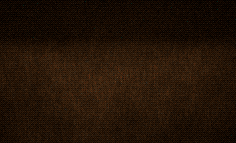
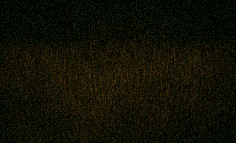
Dark pixel look rebuilt from realistic renders; ornate rendered doors for classic
- Pixel: rusted sword, shield, axe and spear and the HUD gems are now Blender renders crushed into fine grainy
  pixels (random-noise dithering, rich palette) instead of drawn pixel art; mossy weathered stone wall;
  grimy steel and worn wood; dim, worn spines with dark labels; plainer pixel type; cobwebs removed
- Classic: closed cases show rendered oak doors with scrolled iron hinges, grille, studs and ring pulls
- Fix: a duplicated CSS block was overriding the newer door and weapon styles

Claude-Session: https://claude.ai/code/session_01AorV6A1RpKrV1UJqfhHdYQ

diff --git a/index.html b/index.html
@@ -495,7 +495,7 @@ html[data-look="pixel"] .top{background:url(look/p-head.png) 0 0/100% 100% no-re
 html[data-look="pixel"] .top::after{height:10px;border-top:0;background:url(look/p-rail.png) 0 0/100% 100% no-repeat;image-rendering:pixelated}
 html[data-look="pixel"] .brand{align-items:center}
 html[data-look="pixel"] .brand::before{content:"";width:40px;height:40px;flex:none;background:url(look/p-gem-big.png) center/40px 40px no-repeat;image-rendering:pixelated;margin-right:-2px}
-html[data-look="pixel"] .top h1{font-family:"Pixelify Sans","VT323",monospace;font-weight:600;font-size:25px;letter-spacing:.04em;text-transform:uppercase;color:#E2C478;text-shadow:2px 2px 0 #0C0907}
+html[data-look="pixel"] .top h1{font-family:"VT323",monospace;font-weight:400;font-size:30px;letter-spacing:.06em;text-transform:uppercase;color:#D8C8A0;text-shadow:2px 2px 0 #0C0907}
 html[data-look="pixel"] .btn,html[data-look="pixel"] .icon-btn,html[data-look="pixel"] .chip,html[data-look="pixel"] .card-edit{font-family:"VT323",monospace;font-weight:400;font-size:20px;letter-spacing:.02em;color:#E8E0CC;text-shadow:1px 1px 0 #0C0907;
   border:1px solid transparent;border-image:url(look/p-btn.png) 5/5px stretch;background:url(look/tx-pixel.png) 0 0/64px,#2A2420;background-blend-mode:multiply;box-shadow:0 3px 0 rgba(0,0,0,.5);image-rendering:pixelated;text-transform:uppercase}
 html[data-look="pixel"] .btn.brass,html[data-look="pixel"] .chip[aria-pressed="true"],html[data-look="pixel"] .card-edit.on{color:#F4E8C4;background:url(look/tx-pixel.png) 0 0/64px,#7A5E28;background-blend-mode:multiply}
@@ -513,7 +513,7 @@ html[data-look="pixel"] .case::after{right:0;border-image-source:url(look/p-pil-
 html[data-look="pixel"] .cornice{height:58px;margin:0 -22px;background:url(look/p-cornice.png) center/100% 100% no-repeat;image-rendering:pixelated}
 html[data-look="pixel"] .cornice>*{display:none}
 html[data-look="pixel"] .plate-row{margin:-44px 0 14px}
-html[data-look="pixel"] .scroll{width:24px;height:24px;margin:0 6px;background:url(look/p-gem-on.png) center/24px 24px no-repeat;image-rendering:pixelated}
+html[data-look="pixel"] .scroll{width:30px;height:30px;margin:0 3px;background:url(look/p-gem-on.png) center/30px 30px no-repeat;image-rendering:pixelated}
 html[data-look="pixel"] .scroll *{display:none}
 html[data-look="pixel"] .plate{height:30px;display:inline-flex;align-items:center;padding:0 16px;border:0;border-image:url(look/p-plate.png) 6 fill/6px stretch;background:none;box-shadow:none;image-rendering:pixelated;
   font-family:"VT323",monospace;font-size:21px;letter-spacing:.06em;text-transform:uppercase;color:#E8E0CC;text-shadow:1px 1px 0 #0C0907}
@@ -527,7 +527,7 @@ html[data-look="pixel"] .door::after{background:#22A866;box-shadow:0 0 0 2px #0C
 html[data-look="pixel"] .nav{border-top:0;background:url(look/p-nav.png) 0 0/100% 100% no-repeat,#17120e;image-rendering:pixelated}
 html[data-look="pixel"] .nav button{font-family:"VT323",monospace;font-size:19px;font-weight:400;color:#9C9480;text-shadow:1px 1px 0 #0C0907}
 html[data-look="pixel"] .nav button svg{display:none}
-html[data-look="pixel"] .nav button::after{content:"";order:-1;width:28px;height:28px;background:url(look/p-gem-off.png) center/28px 28px no-repeat;image-rendering:pixelated}
+html[data-look="pixel"] .nav button::after{content:"";order:-1;width:30px;height:30px;background:url(look/p-gem-off.png) center/30px 30px no-repeat;image-rendering:pixelated}
 html[data-look="pixel"] .nav button[aria-current="page"]{color:#E2C478}
 html[data-look="pixel"] .nav button[aria-current="page"]::after{background-image:url(look/p-gem-on.png)}
 html[data-look="pixel"] .nav button[aria-current="page"]::before{display:none}
@@ -535,7 +535,7 @@ html[data-look="pixel"] .badge{font-family:"VT323",monospace;font-size:17px;back
 html[data-look="pixel"] .leather,html[data-look="pixel"] .sheet{background:url(look/tx-pixel.png) 0 0/64px,#1E1813;background-blend-mode:multiply;border:1px solid transparent;border-image:url(look/p-field.png) 5/6px stretch;box-shadow:0 8px 0 rgba(0,0,0,.45);image-rendering:pixelated}
 html[data-look="pixel"] .sheet{border-bottom:0}
 html[data-look="pixel"] .parch,html[data-look="pixel"] .index-card{background:#D8CBA8;color:#1E1810;box-shadow:inset 0 0 0 3px #0C0907,inset 0 0 0 6px #8E7E5E,0 8px 0 rgba(0,0,0,.45)}
-html[data-look="pixel"] .card-title,html[data-look="pixel"] .sheet-title,html[data-look="pixel"] .b-title,html[data-look="pixel"] .uni-title,html[data-look="pixel"] .grp-head,html[data-look="pixel"] .empty-card h2{font-family:"Pixelify Sans","VT323",monospace;font-weight:600;letter-spacing:.02em}
+html[data-look="pixel"] .card-title,html[data-look="pixel"] .sheet-title,html[data-look="pixel"] .b-title,html[data-look="pixel"] .uni-title,html[data-look="pixel"] .grp-head,html[data-look="pixel"] .empty-card h2{font-family:"VT323",monospace;font-weight:400;letter-spacing:.04em;font-size:1.25em}
 html[data-look="pixel"] .ledger .card-title,html[data-look="pixel"] .sheet-title,html[data-look="pixel"] .b-title{color:#E2C478;text-shadow:2px 2px 0 #0C0907}
 html[data-look="pixel"] .b-author,html[data-look="pixel"] .entry.missing .et{font-style:normal}
 html[data-look="pixel"] .x{border:1px solid transparent;border-image:url(look/p-btn.png) 5/5px stretch;background:#2A2420;color:#E2C478}
@@ -649,14 +649,11 @@ html[data-look="classic"] .lcov .frame{border:2px solid rgba(214,170,90,.8);box-
 .prop{display:none}
 html[data-look="pixel"] .prop{display:block;position:absolute;pointer-events:none;z-index:3;image-rendering:pixelated;background-repeat:no-repeat}
 html[data-look="pixel"] .prop.arm{background-size:100% 100%}
-html[data-look="pixel"] .case:nth-of-type(5n+1) .prop.arm{left:-10px;top:-30px;width:72px;height:72px;background-image:url(look/p-w-shield.png);transform:rotate(-8deg)}
-html[data-look="pixel"] .case:nth-of-type(5n+2) .prop.arm{right:-12px;bottom:-4px;width:56px;height:96px;background-image:url(look/p-w-axe.png);transform:rotate(-12deg);transform-origin:50% 100%}
-html[data-look="pixel"] .case:nth-of-type(5n+3) .prop.arm{left:-8px;bottom:-6px;width:22px;height:176px;background-image:url(look/p-w-spear.png);transform:rotate(6deg);transform-origin:50% 100%}
-html[data-look="pixel"] .case:nth-of-type(5n+4) .prop.arm{right:34px;top:-60px;width:28px;height:116px;background-image:url(look/p-w-sword.png);transform:rotate(90deg)}
-html[data-look="pixel"] .case:nth-of-type(5n) .prop.arm{left:24%;top:-30px;width:20px;height:56px;background-image:url(look/p-w-dagger.png);transform:rotate(172deg)}
-html[data-look="pixel"] .prop.cobweb{display:none;right:18px;top:58px;width:48px;height:48px;background:url(look/p-w-web.png) 0 0/100% 100% no-repeat;transform:scaleX(-1)}
-html[data-look="pixel"] .case:nth-of-type(3n+2) .prop.cobweb{display:block;right:auto;left:18px;transform:none}
-html[data-look="pixel"] .case:nth-of-type(4n+3) .prop.cobweb{display:block}
+html[data-look="pixel"] .case:nth-of-type(5n+1) .prop.arm{left:-10px;top:-40px;width:80px;height:80px;background-image:url(look/p-w-shield.png);transform:rotate(-7deg)}
+html[data-look="pixel"] .case:nth-of-type(5n+2) .prop.arm{right:-12px;bottom:-2px;width:60px;height:110px;background-image:url(look/p-w-axe.png);transform:rotate(-12deg);transform-origin:50% 100%}
+html[data-look="pixel"] .case:nth-of-type(5n+3) .prop.arm{left:-6px;bottom:-4px;width:22px;height:170px;background-image:url(look/p-w-spear.png);transform:rotate(6deg);transform-origin:50% 100%}
+html[data-look="pixel"] .case:nth-of-type(5n+4) .prop.arm{right:48px;top:-84px;width:30px;height:126px;background-image:url(look/p-w-sword.png);transform:rotate(90deg)}
+html[data-look="pixel"] .case:nth-of-type(5n) .prop.arm{right:-6px;bottom:-4px;width:30px;height:126px;background-image:url(look/p-w-sword.png);transform:rotate(-9deg);transform-origin:50% 100%}
 html[data-look="pixel"] .cornice{clip-path:polygon(0 5px,3px 5px,3px 1px,9px 1px,9px 0,38% 0,38% 3px,calc(38% + 5px) 3px,calc(38% + 5px) 0,calc(100% - 14px) 0,calc(100% - 14px) 2px,calc(100% - 4px) 2px,calc(100% - 4px) 7px,100% 7px,100% 100%,0 100%)}
 html[data-look="pixel"] .case:nth-of-type(2n) .cornice{clip-path:polygon(0 0,22% 0,22% 2px,calc(22% + 8px) 2px,calc(22% + 8px) 0,calc(100% - 6px) 0,calc(100% - 6px) 4px,100% 4px,100% 100%,0 100%)}
 html[data-look="pixel"] .case:nth-of-type(3n) .cornice{clip-path:polygon(0 3px,6px 3px,6px 0,61% 0,61% 4px,calc(61% + 3px) 4px,calc(61% + 3px) 1px,100% 1px,100% 100%,0 100%)}
@@ -671,10 +668,9 @@ html[data-look="pixel"] .leather:not(.sheet){clip-path:polygon(0 4px,4px 4px,4px
 html[data-look="pixel"] .ledger:nth-child(even){transform:rotate(.35deg)}
 html[data-look="pixel"] .ledger:nth-child(3n){transform:rotate(-.3deg)}
 /* doors of a closed case */
-html[data-look="pixel"] .door{background:linear-gradient(transparent 20%,#0C0907 20% 22%,#5C605E 22% 30%,#0C0907 30% 32%,transparent 32% 66%,#0C0907 66% 68%,#5C605E 68% 76%,#0C0907 76% 78%,transparent 78%),
-  repeating-linear-gradient(90deg,#0C0907 0 2px,transparent 2px 14px),url(look/tx-pixel.png) 0 0/64px,#4E3420;background-blend-mode:normal,normal,multiply,normal;box-shadow:inset 0 0 0 2px #0C0907,inset 2px 2px 0 rgba(255,220,170,.15)}
-html[data-look="pixel"] .door::before{inset:0;background:linear-gradient(90deg,transparent 0 4px,#8E9490 4px 6px,transparent 6px) 0 23%/14px 4px repeat-x,linear-gradient(90deg,transparent 0 4px,#8E9490 4px 6px,transparent 6px) 0 71%/14px 4px repeat-x;box-shadow:none}
-html[data-look="pixel"] .door::after{width:10px;height:10px;margin-top:-5px;border-radius:0;background:transparent;box-shadow:inset 0 0 0 2px #8E9490,0 0 0 2px #0C0907}
+html[data-look="pixel"] .door{background:linear-gradient(rgba(8,6,4,.42),rgba(8,6,4,.42)),url(look/p-rail.png) 0 24%/100% 7px no-repeat,url(look/p-rail.png) 0 72%/100% 7px no-repeat,url(look/p-back.png) 0 0/auto,#1a130e;image-rendering:pixelated;box-shadow:inset 0 0 0 2px #0C0907,inset 0 0 12px rgba(0,0,0,.7)}
+html[data-look="pixel"] .door::before{display:none}
+html[data-look="pixel"] .door::after{width:10px;height:12px;margin-top:-6px;border-radius:0;background:url(look/p-gem-off.png) center/12px 12px;box-shadow:none;image-rendering:pixelated}
 html[data-look="pixel"] .door.r{clip-path:polygon(0 0,100% 0,100% 100%,30% 100%,30% calc(100% - 3px),0 calc(100% - 3px))}
 /* notes: parchment, not lined paper */
 html[data-look="pixel"] .index-card{color:#1E1810;background:url(look/tx-pixel.png) 0 0/64px,#C9B588;background-blend-mode:multiply;image-rendering:pixelated;
@@ -686,13 +682,11 @@ html[data-look="pixel"] .index-card .card-sub,html[data-look="pixel"] .index-car
 html[data-look="pixel"] .index-card .btn{color:#1E1810;text-shadow:none;background:url(look/tx-pixel.png) 0 0/64px,#B6A070;background-blend-mode:multiply}
 
 /* ===== classic: dungeon doors and parchment notes ===== */
-html[data-look="classic"] .doors-in{gap:4px}
-html[data-look="classic"] .door{background:linear-gradient(transparent 18%,#1E1814 18% 27%,transparent 27% 70%,#1E1814 70% 79%,transparent 79%),
-  repeating-linear-gradient(90deg,rgba(20,8,2,.55) 0 2px,transparent 2px 19px),url(look/tx-paint.webp) 0 0/140px,linear-gradient(#4E3218,#2C1A0C);
-  background-blend-mode:normal,normal,multiply,normal;box-shadow:inset 0 0 0 2px #140A04,inset 0 0 16px rgba(0,0,0,.65),0 3px 6px rgba(0,0,0,.6)}
-html[data-look="classic"] .door::before{inset:0;background:radial-gradient(circle,#B4A48E 0 1.3px,#2A2018 1.6px,transparent 2.2px) 8px 22.5%/19px 7px repeat-x,radial-gradient(circle,#B4A48E 0 1.3px,#2A2018 1.6px,transparent 2.2px) 8px 74.5%/19px 7px repeat-x;box-shadow:none}
-html[data-look="classic"] .door::after{width:14px;height:16px;margin-top:-6px;border-radius:50%;background:transparent;border:2px solid #6A5A48;box-shadow:0 1px 2px rgba(0,0,0,.8),inset 0 1px 1px rgba(0,0,0,.6)}
-html[data-look="classic"] .door.l::after{right:6px}html[data-look="classic"] .door.r::after{left:6px}
+html[data-look="classic"] .doors-in{gap:4px;height:112px}
+html[data-look="classic"] .case.st-closed .doors-wrap{height:112px}
+html[data-look="classic"] .door{background:url(look/c-door-l.webp) center/100% 100% no-repeat,#140a04;box-shadow:inset 0 0 0 1px #0a0502,0 3px 8px rgba(0,0,0,.75)}
+html[data-look="classic"] .door.r{background-image:url(look/c-door-r.webp)}
+html[data-look="classic"] .door::before,html[data-look="classic"] .door::after{display:none}
 html[data-look="classic"] .index-card{color:#2C1608;background:url(look/tx-paper.webp) 0 0/120px,radial-gradient(ellipse at 50% 40%,#F0DFB4 38%,#D2B47E 85%,#B08A52);background-blend-mode:multiply;
   box-shadow:inset 0 0 26px rgba(110,60,20,.5),inset 0 0 3px rgba(70,30,8,.6),0 10px 20px rgba(0,0,0,.6);
   clip-path:polygon(0 2%,3% 0,22% 1%,41% 0,63% 1.2%,82% 0,97% .6%,100% 3%,99.4% 28%,100% 54%,99.2% 79%,100% 97%,96% 100%,74% 99%,52% 100%,29% 99.2%,8% 100%,.5% 98%,0 74%,.8% 49%,0 24%)}
@@ -700,6 +694,17 @@ html[data-look="classic"] .index-card .card-head{border-bottom:1px solid rgba(13
 html[data-look="classic"] .index-card .card-title{color:#8A1A12;font-family:var(--display)}
 html[data-look="classic"] .index-card .item{border-bottom:1px dotted rgba(90,50,20,.35)}
 html[data-look="classic"] .index-card .btn{color:#2C1608}
+
+/* pixel spines: worn, grimy and dim, dark leather labels with tarnished gold, never bright flat colour */
+html[data-look="pixel"] #addBtn{white-space:nowrap}
+html[data-look="pixel"] .lsp{filter:saturate(.66) brightness(.86) contrast(1.08)}
+html[data-look="pixel"] .lsp .tex{background-size:64px;opacity:1}
+html[data-look="pixel"] .lsp.art::after{background:linear-gradient(90deg,rgba(0,0,0,.62) 0 10%,rgba(255,230,190,.10) 10% 24%,transparent 24% 74%,rgba(0,0,0,.5) 74%),linear-gradient(rgba(0,0,0,.35),transparent 18%,transparent 82%,rgba(0,0,0,.45))}
+html[data-look="pixel"] .lsp.v-lb .lab,html[data-look="pixel"] .lsp.v-cl .lab,html[data-look="pixel"] .lsp.v-lp .lab{background:#120d09;box-shadow:inset 0 0 0 1px #5e4a28}
+html[data-look="pixel"] .lsp .ttl,html[data-look="pixel"] .lsp.v-cl .ttl,html[data-look="pixel"] .lsp:not(.gold):not(.v-cl) .ttl{color:#CDB680;text-shadow:1px 1px 0 #0C0907}
+html[data-look="pixel"] .lsp.m-paper .ttl{color:var(--ink);text-shadow:none}
+html[data-look="pixel"] .lsp .au{color:#B49C6A}
+html[data-look="pixel"] .m-leather .bd{background:linear-gradient(to bottom,#0C0907 0 2px,var(--d) 2px 5px,#8A7444 5px 7px,var(--d) 7px calc(100% - 2px),#0C0907 calc(100% - 2px))}
 </style>
 <script>try{var l=localStorage.getItem("study-look");document.documentElement.dataset.look=(l==="pixel"||l==="classic")?l:"real";}catch(e){document.documentElement.dataset.look="real";}</script>
 </head>
@@ -1806,7 +1811,7 @@ function openLooks(){if(!LOOKS_LOCKED)return LOOKS;let won=[];try{won=JSON.parse
 function lookNow(){const l=document.documentElement.dataset.look;return openLooks().includes(l)?l:"real";}
 function setLook(l){if(!openLooks().includes(l))l="real";document.documentElement.dataset.look=l;LS.set("study-look",l);_fit.clear();render();}
 function nextLook(){const o=openLooks(),n=o[(o.indexOf(lookNow())+1)%o.length];setLook(n);toast(LOOK_NAME[n]);}
-const LOOK_FONT={real:{fam:F_SERIF,wt:600},pixel:{fam:"'Pixelify Sans','VT323',monospace",wt:500},classic:{fam:F_DISPLAY,wt:400}};
+const LOOK_FONT={real:{fam:F_SERIF,wt:600},pixel:{fam:"'VT323',monospace",wt:400},classic:{fam:F_DISPLAY,wt:400}};
 // Every series gets one binding (its style slot picks it), so neighbouring series still look different.
 const VARIANTS=["lb","cf","pg","lg","cl","pt","lp","ls"];
 const LEATHERS=["lb","lg","lp","ls"],PAPERS=["pg","pt"];
@@ -2298,7 +2303,7 @@ function bookcase(label,count,inner,opts={}){
   return`<section class="case st-${st}">${CORNICE}<div class="plate-row">${SCROLL("")}${plate}${SCROLL(" r")}</div>
     <div class="shelf-wrap"><div class="shelf-inner"><div class="shelf${opts.blank?" blank":""}">${inner}</div></div></div>
     ${can?`<div class="doors-wrap" aria-hidden="true"><div class="doors-in"><span class="door l"></span><span class="door r"></span></div></div>`:""}
-    <div class="plinth" aria-hidden="true"></div><i class="prop arm" aria-hidden="true"></i><i class="prop cobweb" aria-hidden="true"></i>${opts.extra||""}</section>`;
+    <div class="plinth" aria-hidden="true"></div><i class="prop arm" aria-hidden="true"></i>${opts.extra||""}</section>`;
 }
 const EASE="cubic-bezier(.22,.9,.25,1)";
 function toggleShelf(btn){
@@ -2308,7 +2313,7 @@ function toggleShelf(btn){
   if(next==="peek"&&full<=PEEK_H+8)next="closed";      // short shelves skip the half-open step
   const o=shelfStates();o[label]=next;LS.set("study-shelfstate",JSON.stringify(o));
   const from=wrap.getBoundingClientRect().height,to=next==="open"?full:next==="peek"?PEEK_H:0;
-  const doorFrom=doors.getBoundingClientRect().height,doorTo=next==="closed"?74:0;
+  const doorFrom=doors.getBoundingClientRect().height,doorTo=next==="closed"?(doors.querySelector(".doors-in").offsetHeight||74):0;
   caseEl.classList.remove("st-open","st-peek","st-closed");caseEl.classList.add("st-"+next,"moving");
   btn.querySelector(".caret").outerHTML=stateIcon(next);
   btn.setAttribute("aria-label",`${label}, ${STATE_WORD[next]}. Tap to change.`);

diff --git a/sw.js b/sw.js
@@ -1,7 +1,7 @@
 // The Study: keeps the app on the phone so it opens with no signal.
 // Online: always fetches the newest version first (so updates show on the next open).
 // Offline or slow signal: opens instantly from the copy saved on the phone.
-const VERSION = "study-v24";
+const VERSION = "study-v25";
 const COVERS = "study-covers"; // cover pictures from Open Library / Google Books, kept across updates
 const COVER_URL = /^https:\/\/(covers\.openlibrary\.org\/b\/|books\.google\.com\/books\/content|books\.googleusercontent\.com\/)/;
 const FILES = [
@@ -11,6 +11,8 @@ const FILES = [
   "./look/c-arch.webp",
   "./look/c-back.webp",
   "./look/c-banner.webp",
+  "./look/c-door-l.webp",
+  "./look/c-door-r.webp",
   "./look/c-ledge.webp",
   "./look/c-pier-l.webp",
   "./look/c-pier-r.webp",
@@ -40,11 +42,9 @@ const FILES = [
   "./look/p-rail.png",
   "./look/p-row.png",
   "./look/p-w-axe.png",
-  "./look/p-w-dagger.png",
   "./look/p-w-shield.png",
   "./look/p-w-spear.png",
   "./look/p-w-sword.png",
-  "./look/p-w-web.png",
   "./look/p-wall.png",
   "./look/r-back.webp",
   "./look/r-btn-brass.webp",
